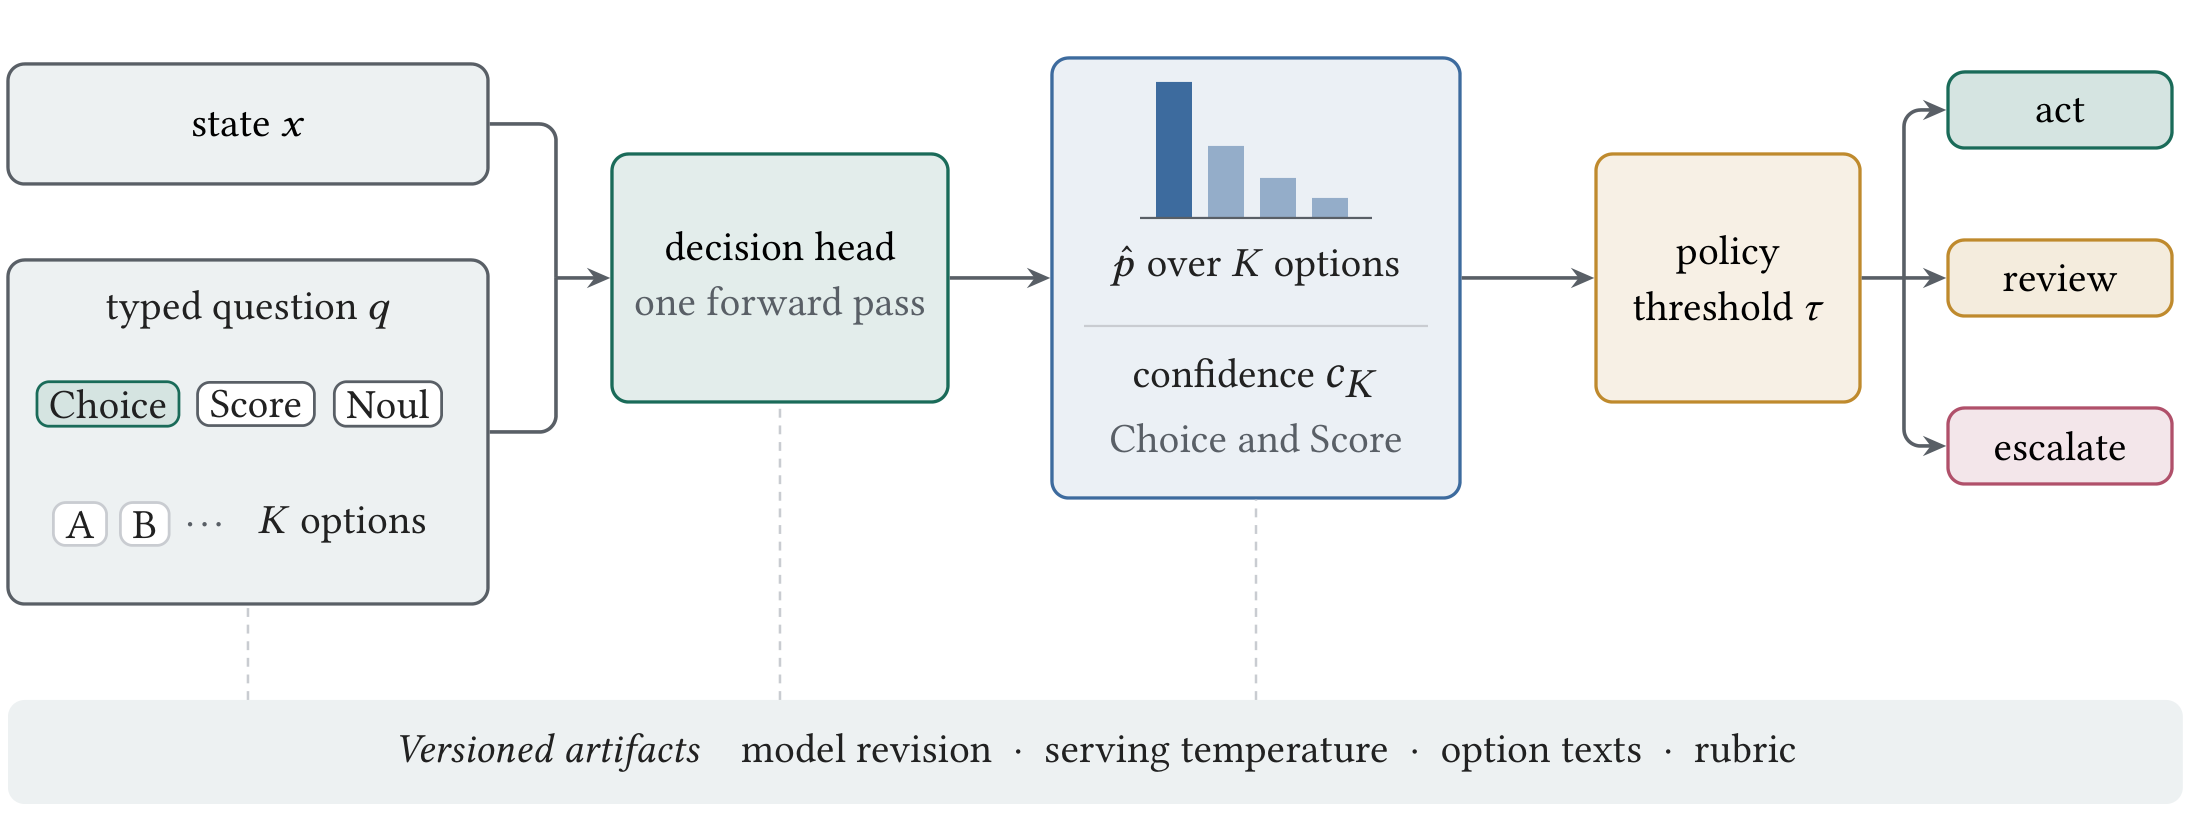
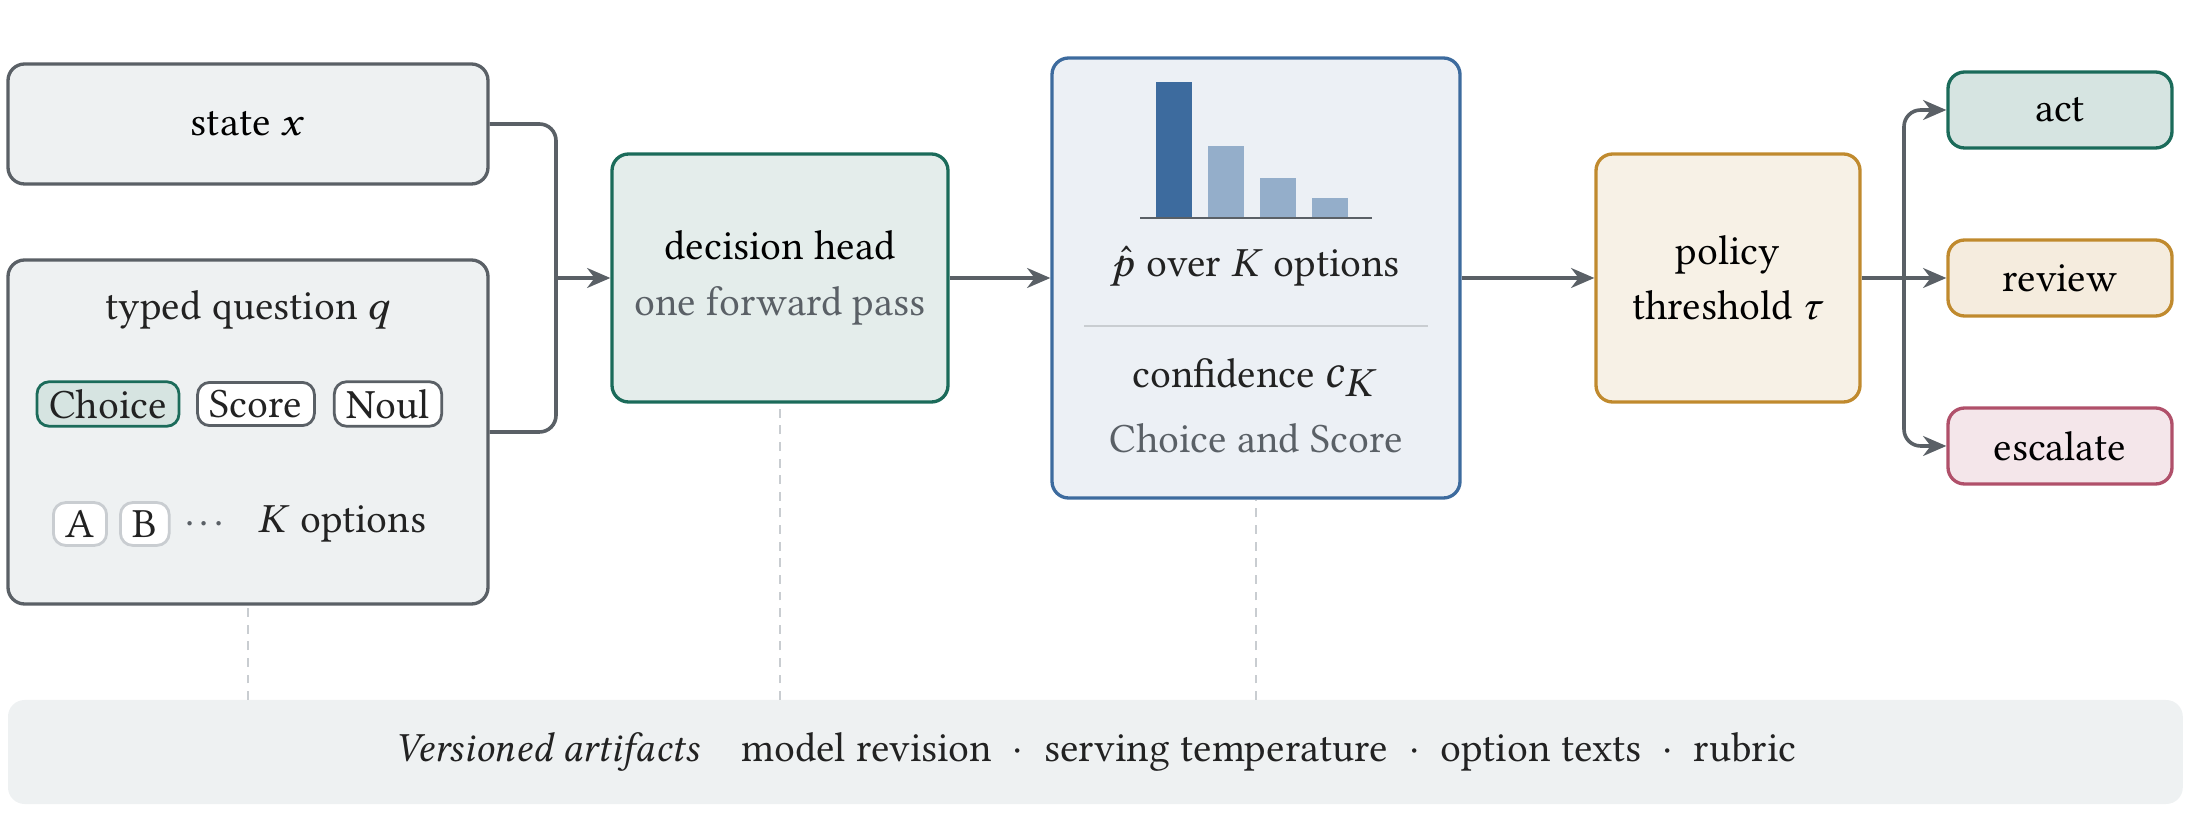
Update figures and diagrams to the v1.2 cutoff
Render the contract, timeline and decision-head figures from the survey's
current versions at 400 dpi, list every hosted provider in the selection
flowchart, add the Box question type to the map, and mark the GitHub
category split as approximate.

diff --git a/scripts/build_readme.py b/scripts/build_readme.py
@@ -278,7 +278,7 @@ A("## 🚀 Quick Start\n")
 A("""```mermaid
 graph TD
     A[🎯 Need a typed decision from text or JSON state?] --> B{Hosted API or open weights?}
-    B -->|Hosted| C[☁ Jev through the vendor API]
+    B -->|Hosted| C[☁ A hosted model: Jev, Microsoft-Decision-1, Trio-Spark or Clef]
     B -->|Open weights| D[🔓 Pick an open family by head, size and license]
     C --> E[🧨 Check the failure atlas for your task]
     D --> E
@@ -304,7 +304,7 @@ stat_lines = [
     f"- **🧬 Derivatives (T2)**: {thousands(counts['total.t2Count'])} (format conversions {thousands(counts['total.t2.formatConversion'])}, quantizations {thousands(counts['total.t2.quantization'])}, "
     f"language fine-tunes {thousands(counts['total.t2.finetuneLanguage'])}, domain fine-tunes {thousands(counts['total.t2.finetuneDomain'])}, merges {thousands(counts['total.t2.merge'])}, other {thousands(counts['total.t2.other'])})",
     f"- **📚 Datasets**: {len(dcensus)} typed-decision datasets on Hugging Face, {len(dsets)} with a full card",
-    f"- **🐙 GitHub repositories screened**: {thousands(counts['total.gh.countTotal'])} (applications {thousands(counts['total.gh.countApplication'])}, integrations {thousands(counts['total.gh.countIntegration'])}, "
+    f"- **🐙 GitHub repositories screened**: {thousands(counts['total.gh.countTotal'])} (approximate split from rules and a classifier: applications {thousands(counts['total.gh.countApplication'])}, integrations {thousands(counts['total.gh.countIntegration'])}, "
     f"evaluation {thousands(counts['total.gh.countEvaluation'])}, local servers {thousands(counts['total.gh.countLocalServer'])}, open-model training {thousands(counts['total.gh.countOpenModelTraining'])}, "
     f"directories {thousands(counts['total.gh.countDirectoryOrSeo'])}, mirrors {thousands(counts['total.gh.countMirrorOrFork'])}); {counts['gh.countTotal']} at the first cutoff",
     f"- **🔬 Evidence ledger**: {thousands(ledger_rows)} extracted values from {len(studies)} studies; risk of bias low {rob_n['low']}, "
@@ -326,6 +326,7 @@ mindmap
       Choice
       Score
       Noul
+      Box
       Versioned artifacts
     Heads
       Fixed slots
@@ -354,7 +355,7 @@ A("The decision contract is best read as a convergence of five older research li
   "September 2026. The timeline places each stream on its own lane; the right panel shows the open implementations that "
   "followed the hosted release within days. Papers marked 📖 are discussed in the survey; the others come "
   "from the same registry-verified bibliography.\n")
-A('<p align="center"><img src="fig/timeline.png" width="860" alt="Timeline of the five research streams converging on Jev 1.13 on 15 September 2026, followed by open implementations"/></p>\n')
+A('<p align="center"><img src="fig/timeline.png" width="860" alt="Timeline of the five research streams converging on Jev 1.13 on 15 September 2026, followed by the open and hosted decision-model releases to 28 October 2026"/></p>\n')
 A(md_table(["Stream", "Contributes", "Papers"],
            [[f"{s['emoji']} [{s['name']}](#{anchor(s['emoji'] + ' ' + s['code'] + ' ' + s['name'])})", s["gives"], str(gc[s["code"]])]
             for s in meta["streams"]]) + "\n")
@@ -393,7 +394,7 @@ A("### 🔓 Open original implementations\n")
 A("Open label-conditioned heads on public backbones reproduced the typed contract within days of the hosted release. "
   "The table condenses the notable families with an independent card; each head badge follows the survey's five-way head "
   "taxonomy, assigned from the card's own description of its decision head.\n")
-A('<p align="center"><img src="fig/heads.png" width="860" alt="Five decision-head archetypes: fixed slots, option markers, label logits, pair scoring and constrained decoding, with the census families under each"/></p>\n')
+A('<p align="center"><img src="fig/heads.png" width="860" alt="Five decision-head archetypes: fixed slots, option markers, label logits, pair scoring and constrained decoding, with the number of census originals and families of each type and the families with an independent card"/></p>\n')
 A("<p align=\"center\">" + " ".join(img("head", HEADS[k]["name"], HEADS[k]["color"]) for k in "abcde") + "</p>\n")
 fam_rows = []
 for f in fams:

diff --git a/README.md b/README.md
@@ -82,7 +82,7 @@ A System One model, also called a typed probabilistic decision model, maps a sta
 ```mermaid
 graph TD
     A[🎯 Need a typed decision from text or JSON state?] --> B{Hosted API or open weights?}
-    B -->|Hosted| C[☁ Jev through the vendor API]
+    B -->|Hosted| C[☁ A hosted model: Jev, Microsoft-Decision-1, Trio-Spark or Clef]
     B -->|Open weights| D[🔓 Pick an open family by head, size and license]
     C --> E[🧨 Check the failure atlas for your task]
     D --> E
@@ -103,7 +103,7 @@ graph TD
 - **🧩 Decision heads (T1)**: fixed slots 30, option markers 132, label logits 171, pair scoring 39, constrained decoding 0, undisclosed 7
 - **🧬 Derivatives (T2)**: 1,370 (format conversions 591, quantizations 110, language fine-tunes 32, domain fine-tunes 345, merges 28, other 264)
 - **📚 Datasets**: 246 typed-decision datasets on Hugging Face, 8 with a full card
-- **🐙 GitHub repositories screened**: 16,014 (applications 6,492, integrations 5,228, evaluation 2,034, local servers 1,094, open-model training 875, directories 290, mirrors 1); 226 at the first cutoff
+- **🐙 GitHub repositories screened**: 16,014 (approximate split from rules and a classifier: applications 6,492, integrations 5,228, evaluation 2,034, local servers 1,094, open-model training 875, directories 290, mirrors 1); 226 at the first cutoff
 - **🔬 Evidence ledger**: 3,388 extracted values from 242 studies; risk of bias low 4, some concerns 94, high 144
 - **🧨 Failure modes**: 15 · **🧱 Design patterns**: 13 · **✅ Checklist items**: 16 in 5 groups
 - **🕒 Cutoff**: 2026-10-28 (v1.2)
@@ -121,6 +121,7 @@ mindmap
       Choice
       Score
       Noul
+      Box
       Versioned artifacts
     Heads
       Fixed slots
@@ -146,7 +147,7 @@ mindmap
 
 The decision contract is best read as a convergence of five older research lines rather than as an invention of September 2026. The timeline places each stream on its own lane; the right panel shows the open implementations that followed the hosted release within days. Papers marked 📖 are discussed in the survey; the others come from the same registry-verified bibliography.
 
-<p align="center"><img src="fig/timeline.png" width="860" alt="Timeline of the five research streams converging on Jev 1.13 on 15 September 2026, followed by open implementations"/></p>
+<p align="center"><img src="fig/timeline.png" width="860" alt="Timeline of the five research streams converging on Jev 1.13 on 15 September 2026, followed by the open and hosted decision-model releases to 28 October 2026"/></p>
 
 | Stream | Contributes | Papers |
 | --- | --- | --- |
@@ -444,7 +445,7 @@ The official SDKs are [system-one-adapter-python](https://github.com/typesafe-ai
 
 Open label-conditioned heads on public backbones reproduced the typed contract within days of the hosted release. The table condenses the notable families with an independent card; each head badge follows the survey's five-way head taxonomy, assigned from the card's own description of its decision head.
 
-<p align="center"><img src="fig/heads.png" width="860" alt="Five decision-head archetypes: fixed slots, option markers, label logits, pair scoring and constrained decoding, with the census families under each"/></p>
+<p align="center"><img src="fig/heads.png" width="860" alt="Five decision-head archetypes: fixed slots, option markers, label logits, pair scoring and constrained decoding, with the number of census originals and families of each type and the families with an independent card"/></p>
 
 <p align="center"><img src="https://img.shields.io/badge/head-Fixed%20slots-8e44ad.svg?style=flat-square" alt="Fixed slots"/> <img src="https://img.shields.io/badge/head-Option%20markers-2e86c1.svg?style=flat-square" alt="Option markers"/> <img src="https://img.shields.io/badge/head-Label%20logits-17a589.svg?style=flat-square" alt="Label logits"/> <img src="https://img.shields.io/badge/head-Pair%20scoring-d68910.svg?style=flat-square" alt="Pair scoring"/> <img src="https://img.shields.io/badge/head-Constrained%20decoding-7f8c8d.svg?style=flat-square" alt="Constrained decoding"/></p>
 
